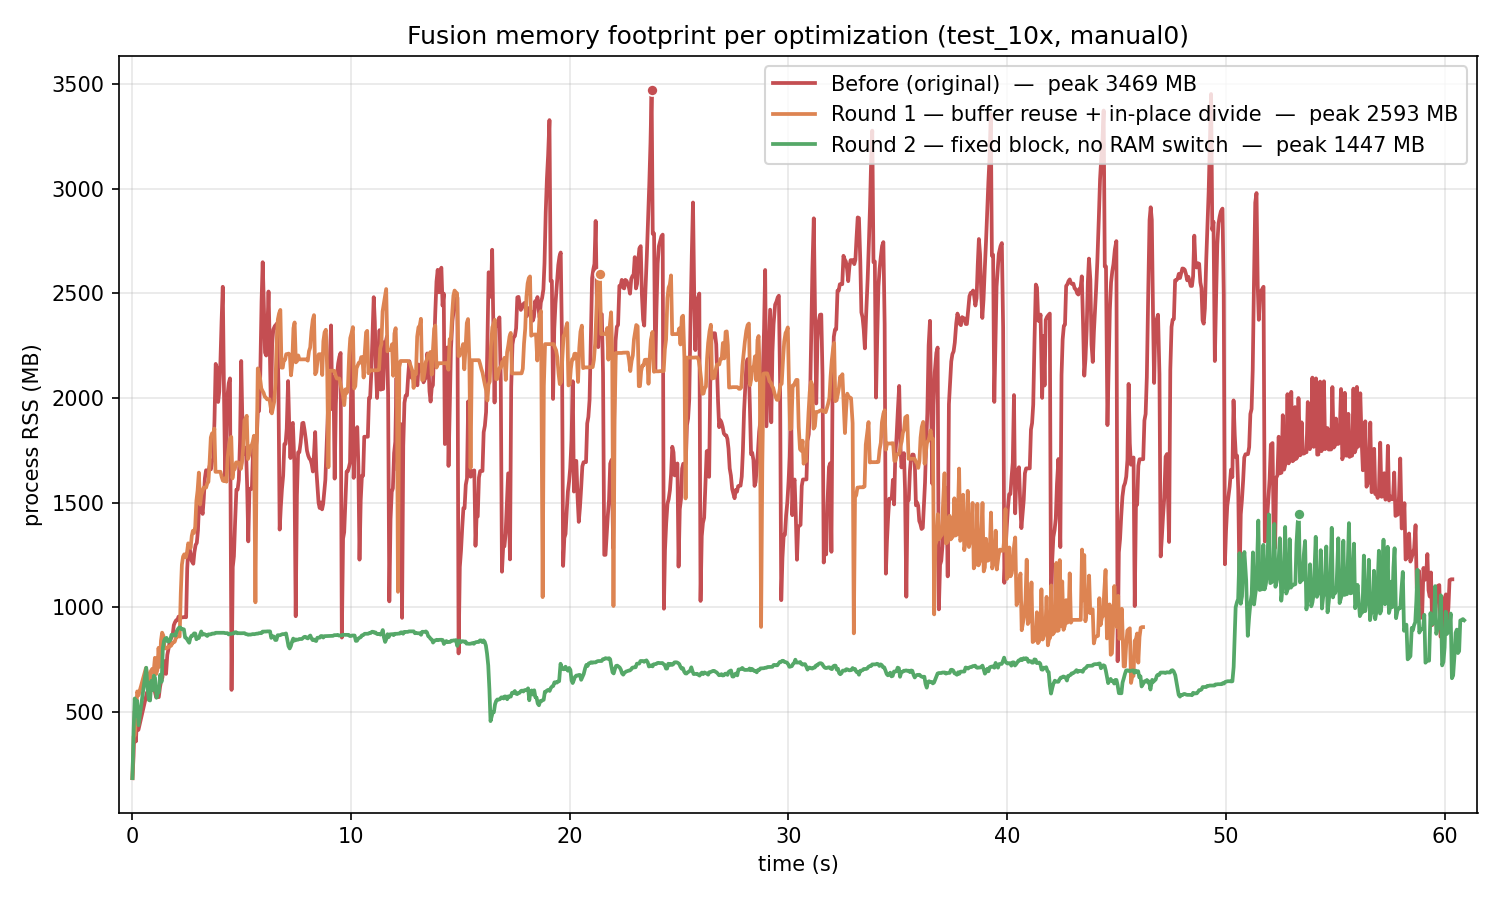
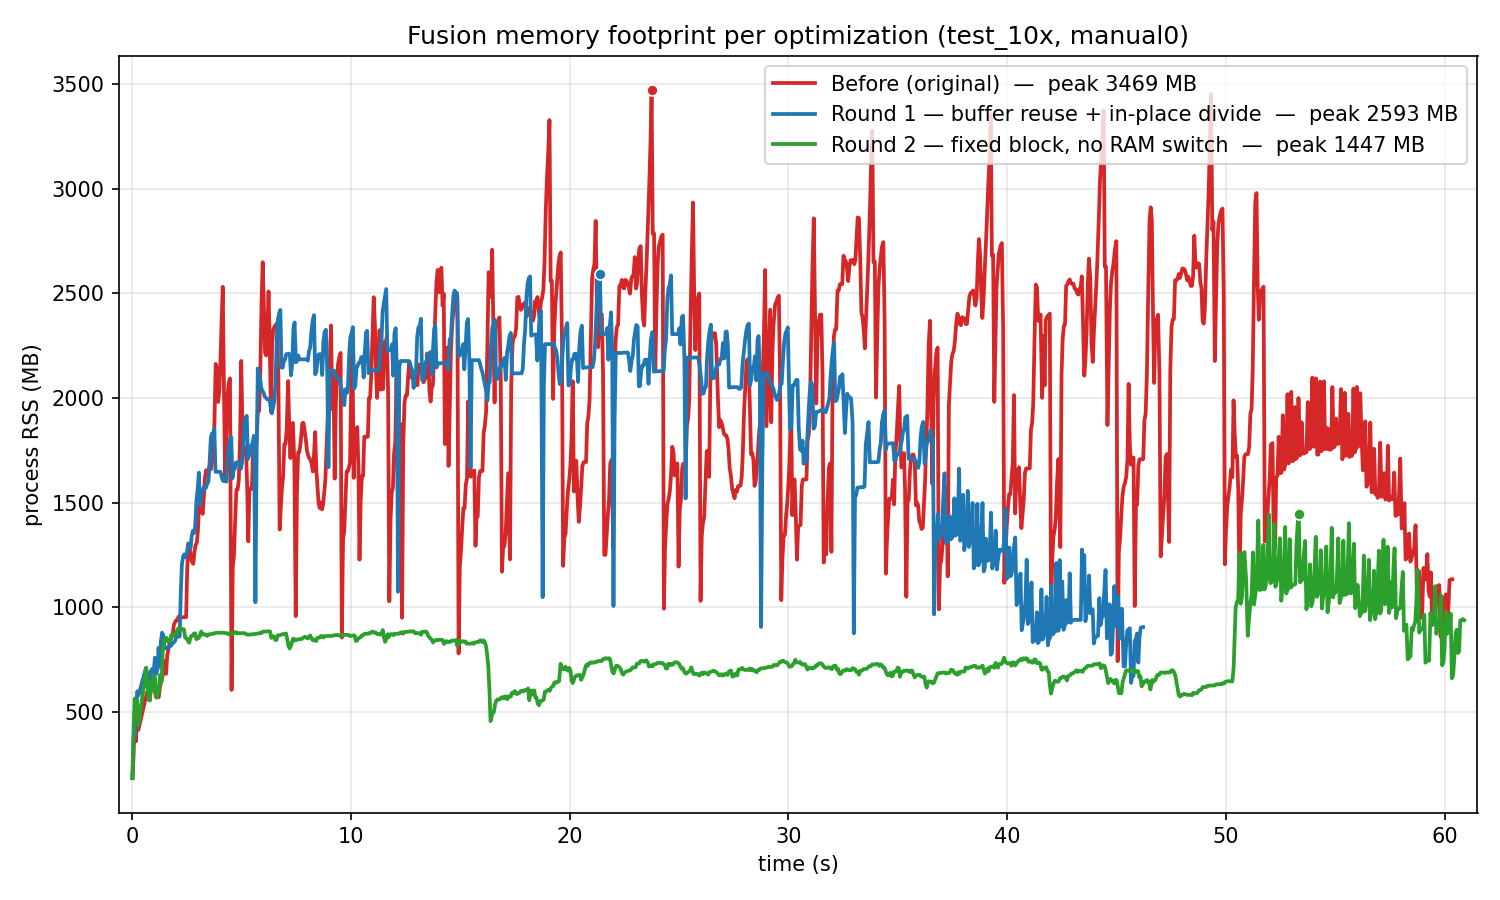
docs: distinct red/blue/green palette for the per-commit overlay
Muted red/amber/green muddied where curves overlapped; switch to far-apart hues
(red=before, blue=round 1, green=round 2) for legibility.

diff --git a/profiling/overlay_commits.py b/profiling/overlay_commits.py
@@ -22,8 +22,9 @@ import matplotlib
 matplotlib.use("Agg")
 import matplotlib.pyplot as plt  # noqa: E402
 
-# Muted red -> amber -> green: reads as "worse -> better" for a non-technical audience.
-PALETTE = ["#C44E52", "#DD8452", "#55A868", "#4C72B0", "#8172B3", "#937860"]
+# Distinct hues (red / blue / green primaries) so overlapping curves stay legible;
+# before=red (worst), last=green (best). Extra colors for >3 series.
+PALETTE = ["#D62728", "#1F77B4", "#2CA02C", "#9467BD", "#FF7F0E", "#17BECF"]
 
 
 def _read_timeline(path):
